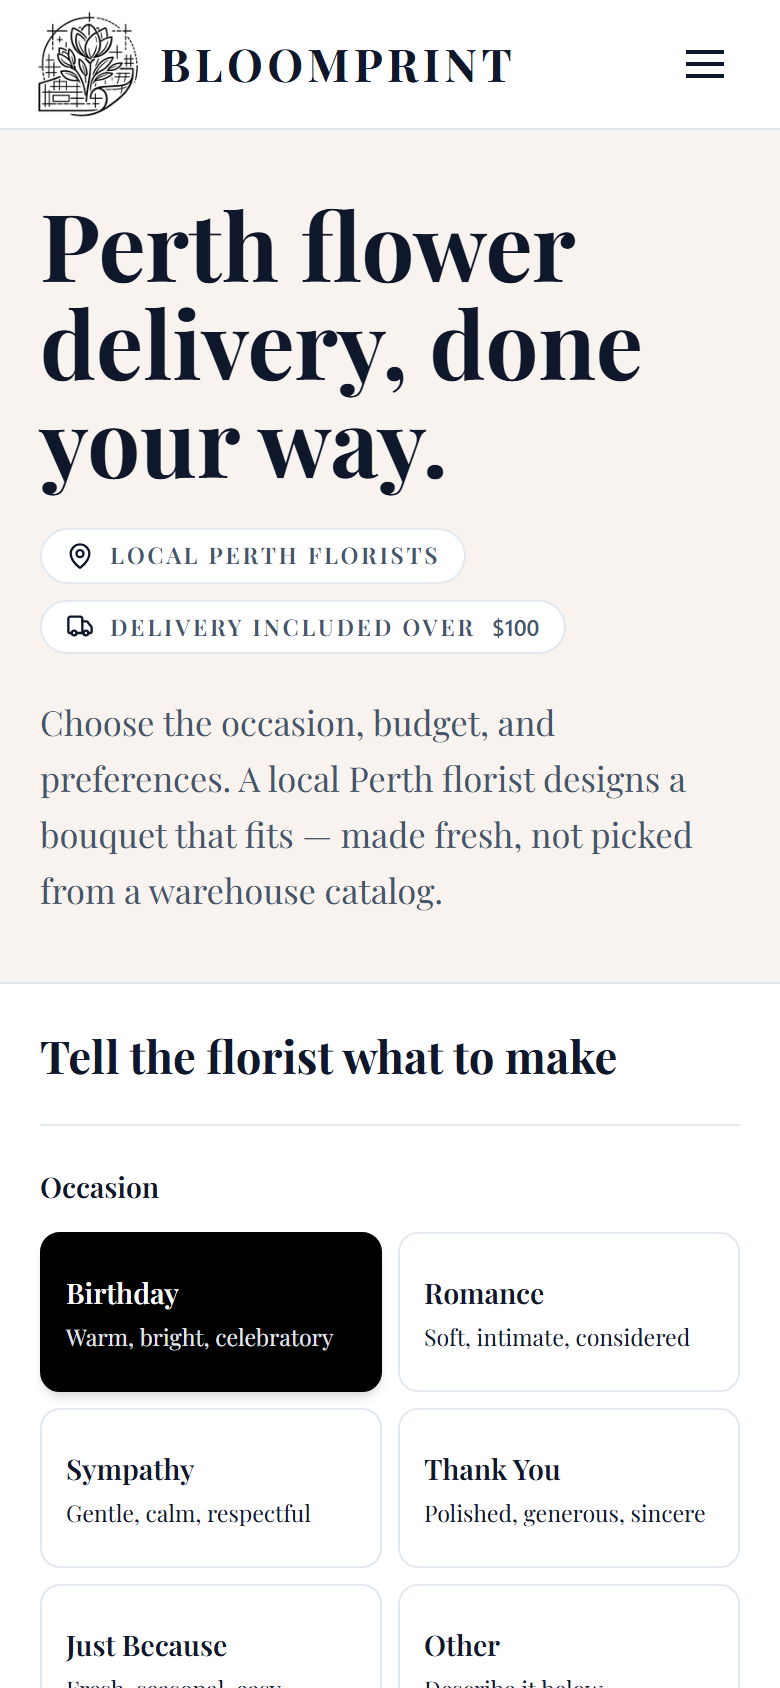
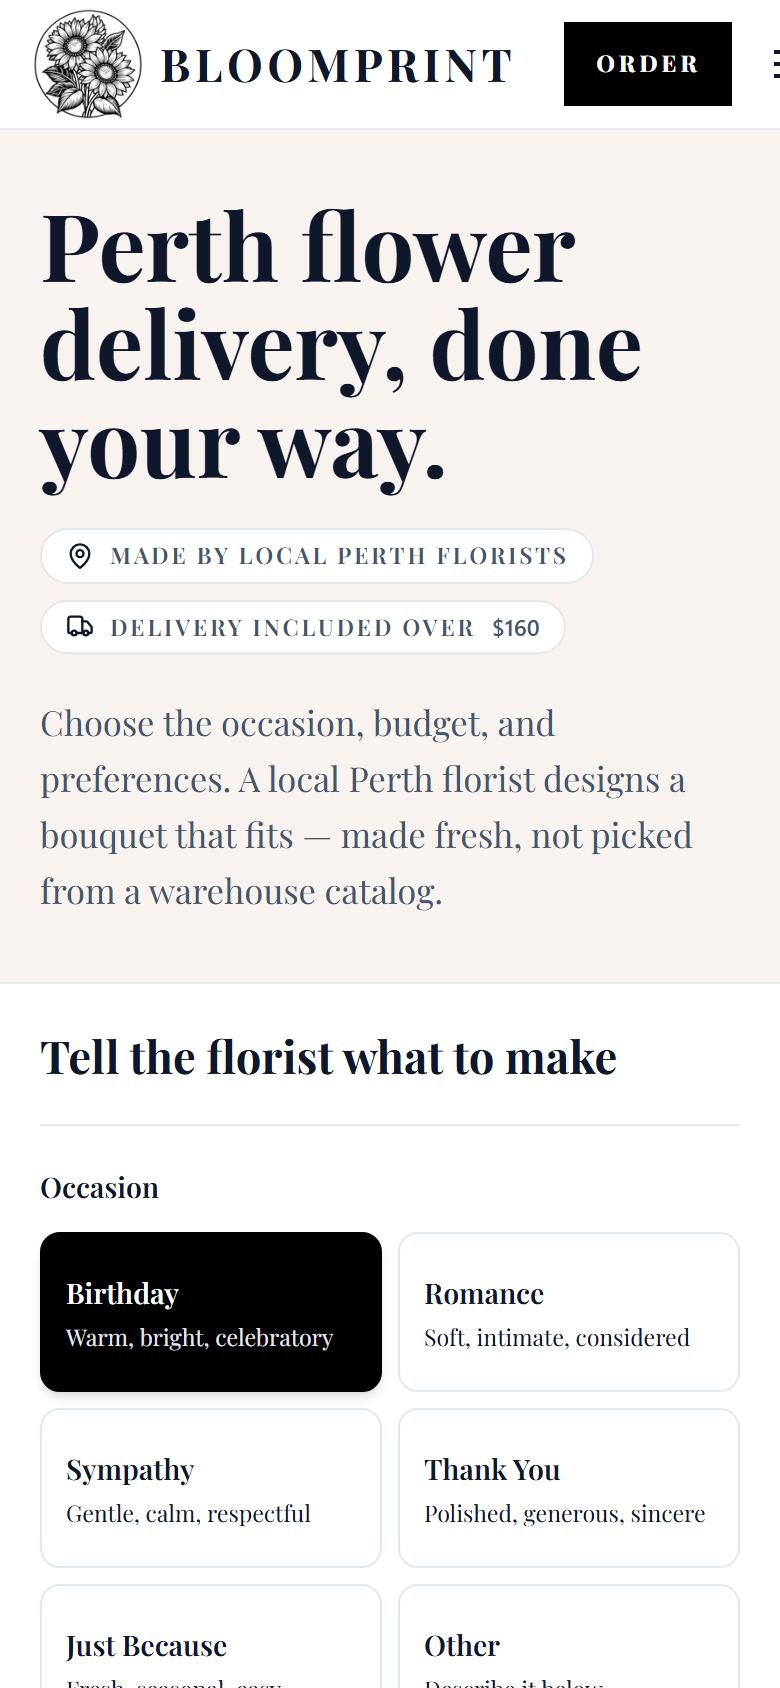
Case studies: today's Bloomprint phone shot, and no menu drawn over screenshots
- home-mobile.png retaken from the live site the way the report pipeline
  takes phone shots (390x844 at 2x, iPhone user agent): the new logo, the
  ORDER button and the $160 delivery line.
- PhoneFrame no longer draws a three-line menu over the top right: every
  screenshot in one shows its own, and on Bloomprint's new header the drawn
  one covered ORDER. The prop goes with it.

Changed region(s): [[0.1538, 0.3081, 0.7077, 0.3389], [0.7077, 0.0, 0.9538, 0.0616], [0.0308, 0.0, 0.1846, 0.0924]]

diff --git a/frontend/src/components/visuals/PhoneFrame.tsx b/frontend/src/components/visuals/PhoneFrame.tsx
@@ -3,7 +3,7 @@ import type { ReactNode } from 'react';
 import { cn } from '@/lib/utils';
 
 /**
- * A drawn phone: bezel, notch, optional menu overlay, optional home bar.
+ * A drawn phone: bezel, notch, optional home bar. A screenshot inside shows its own menu.
  *
  * The site drew three of these — a diagram in the licensing illustrations, a
  * small one pinned into the case-study hero, and a large free-standing one —
@@ -46,13 +46,10 @@ const SIZES = {
 export function PhoneFrame({
   children,
   size = 'diagram',
-  menu = false,
   className,
 }: {
   children: ReactNode;
   size?: keyof typeof SIZES;
-  /** The three-line menu button drawn over the top right of a screenshot. */
-  menu?: boolean;
   className?: string;
 }) {
   const preset = SIZES[size];
@@ -66,13 +63,6 @@ export function PhoneFrame({
       aria-hidden="true"
     >
       <div className={cn('absolute top-0 left-1/2 -translate-x-1/2', preset.notch)} />
-      {menu ? (
-        <div className="absolute top-[10px] right-[5px] z-4 flex w-[25px] flex-col items-stretch justify-center gap-4xs bg-surface-inverse p-2xs [&>i]:block [&>i]:h-px [&>i]:w-full [&>i]:bg-surface-page">
-          <i />
-          <i />
-          <i />
-        </div>
-      ) : null}
       {size === 'diagram' ? (
         <div className="relative h-full w-full overflow-hidden bg-surface-tint">{children}</div>
       ) : (

diff --git a/frontend/src/app/portfolio/_components/PortfolioCaseStudy.tsx b/frontend/src/app/portfolio/_components/PortfolioCaseStudy.tsx
@@ -222,7 +222,6 @@ function PortfolioHero({ config }: { config: PortfolioCaseStudyConfig['hero'] })
           <BrowserFrame image={config.desktopImage} browserUrl={config.browserUrl} hero />
           <PhoneFrame
             size="inset"
-            menu
             className={cn(config.mobileImage.className && 'aspect-[390/844]')}
           >
             <Image
@@ -318,7 +317,7 @@ function PortfolioMobileStory({ config }: { config: MobileStory }) {
         {/* Graph paper at its own scale: this is a stage for a drawn object,
             not a page surface, so the 46px grid is literal. */}
         <div className="relative flex min-h-[550px] items-center justify-center overflow-hidden bg-surface-dark [background-image:linear-gradient(var(--tint-grid-on-dark-strong)_1px,transparent_1px),linear-gradient(90deg,var(--tint-grid-on-dark-strong)_1px,transparent_1px)] [background-size:46px_46px] lg:min-h-[620px]">
-          <PhoneFrame size="standalone" menu>
+          <PhoneFrame size="standalone">
             <Image
               className={config.image.className}
               src={config.image.src}

diff --git a/frontend/src/components/marketing/CaseStudyTeaser.tsx b/frontend/src/components/marketing/CaseStudyTeaser.tsx
@@ -43,7 +43,7 @@ export function CaseStudyTeaser({
             </span>
           </div>
           <div className="relative z-1">
-            <PhoneFrame size="standalone" menu>
+            <PhoneFrame size="standalone">
               <Image
                 src="/case-studies/scooter-shop/inventory-mobile.png"
                 alt="Scooter Shop inventory page on mobile"
